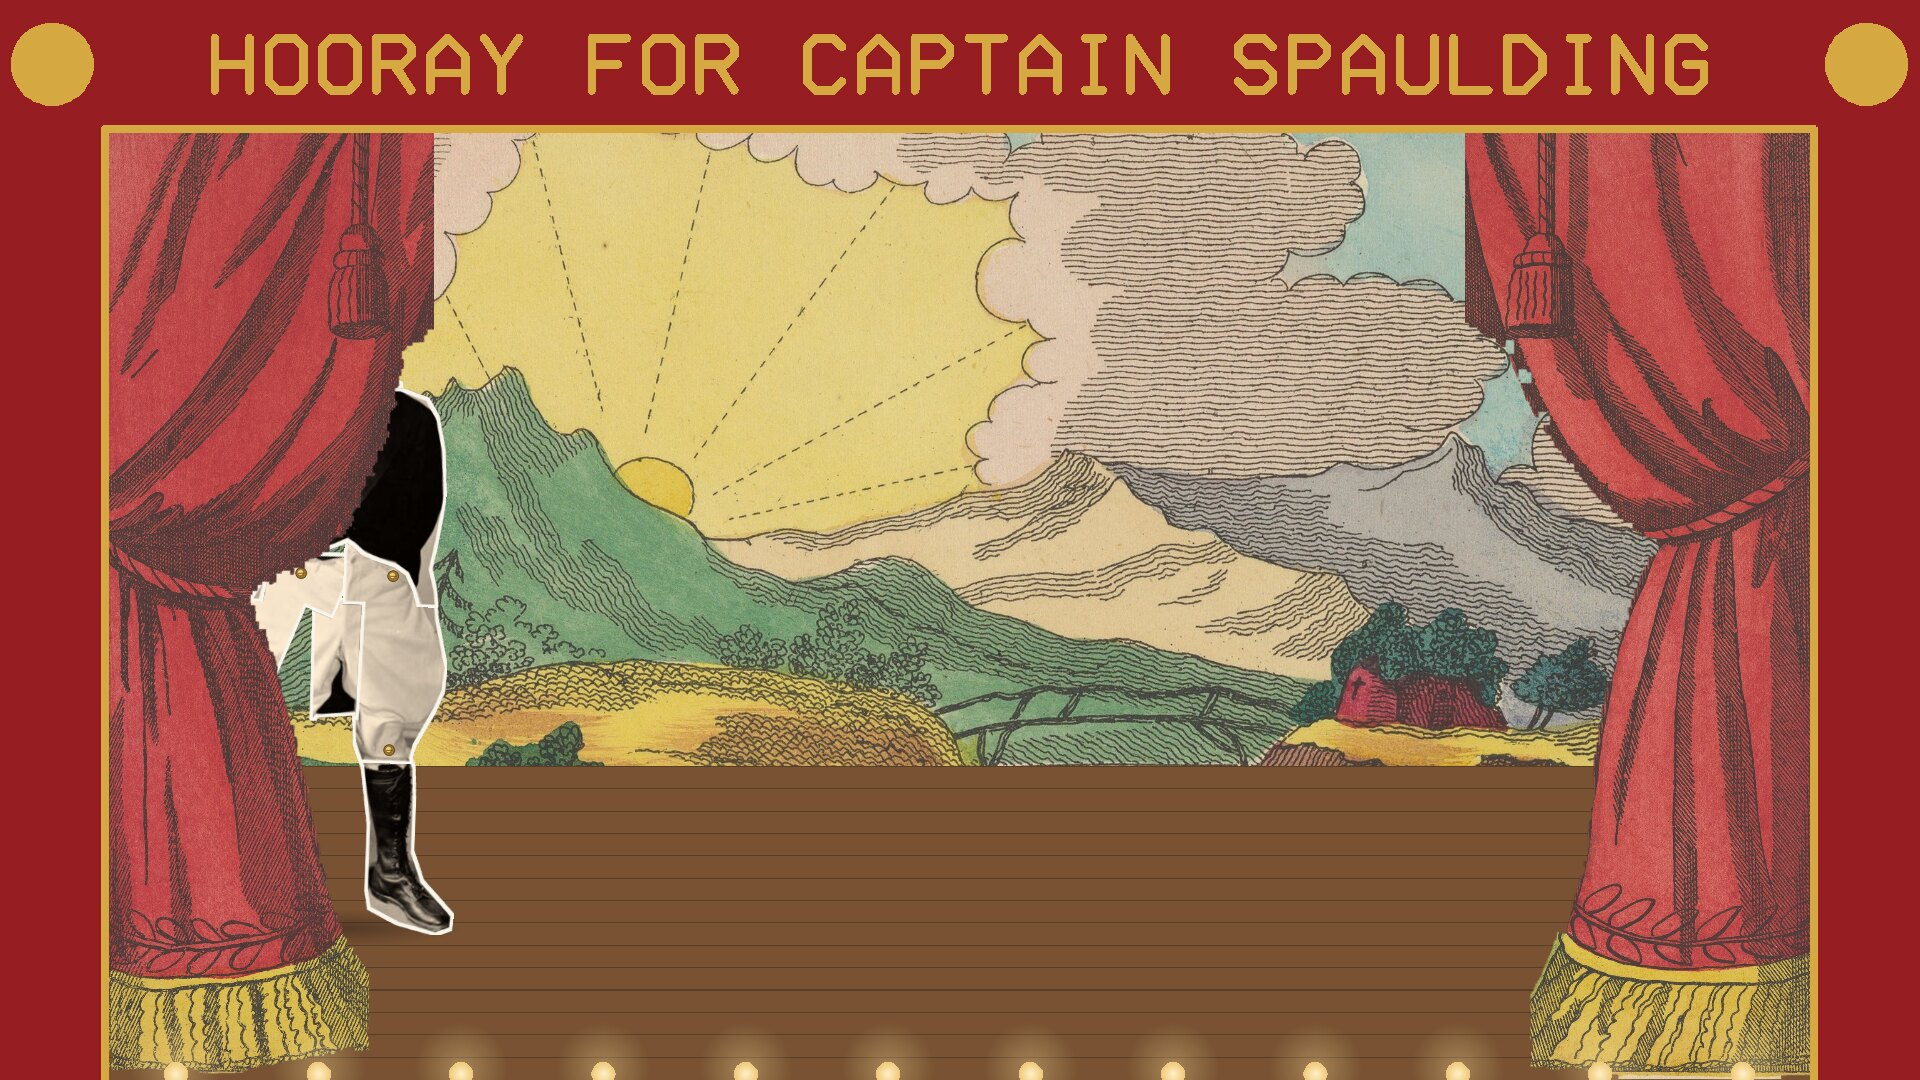
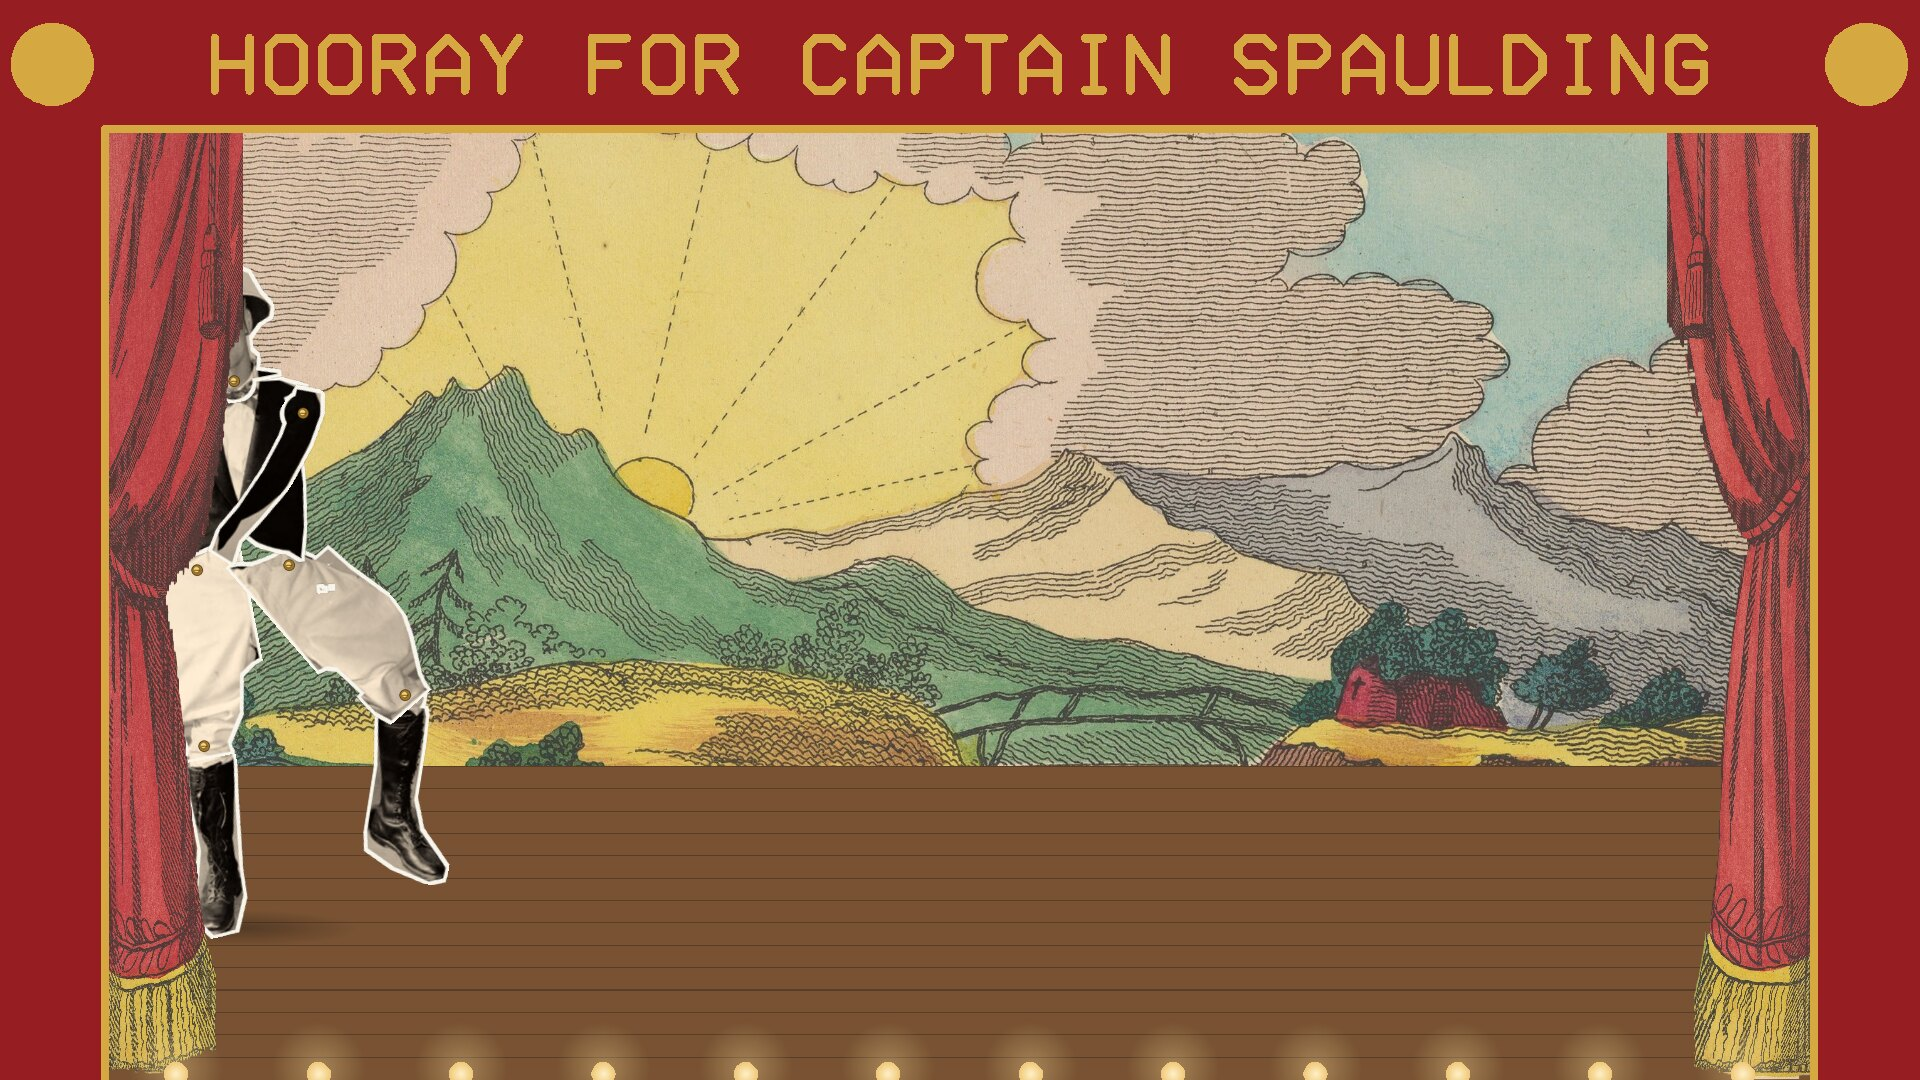
Arms, snappier moves, a clean crotch, smaller curtains
His sleeves are cut away from the jacket as arms pinned at the shoulders,
and they flail through every part. Every move snaps to the beat and holds.
The coat-tail strip between the legs is gone, the trouser seat and all the
light trouser cloth go with the legs, and the curtains are narrow edges.

Changed region(s): [[0.0312, 0.1222, 0.25, 1.0], [0.75, 0.1222, 0.9688, 1.0]]

diff --git a/src/spaulding.c b/src/spaulding.c
@@ -59,7 +59,7 @@
  * tools/make_doll.py, which also writes where their pins are (doll.h); the backdrop
  * and the curtains are from Pollock's toy-theatre scenes, cut by tools/make_stage.py. */
 #define SPRITES \
-    X(head, "sp_head.png") X(body, "sp_body.png") X(tail, "sp_tail.png") \
+    X(head, "sp_head.png") X(body, "sp_body.png") X(arm_l, "sp_arm_l.png") X(arm_r, "sp_arm_r.png") \
     X(thigh_l, "sp_thigh_l.png") X(thigh_r, "sp_thigh_r.png") X(shin_l, "sp_shin_l.png") X(shin_r, "sp_shin_r.png") \
     X(pin, "sp_pin.png") X(backdrop, "backdrop.jpg") X(drape_l, "drape_l.png") X(drape_r, "drape_r.png")
 #define X(name, file) ART(name, file)
@@ -331,55 +331,89 @@ static int beat_at(double t, double *phase)
 
 /* the doll's pose: where he stands (across the stage, 0..1), how high he hops, and
  * the turn of each piece about its pin, in degrees (clockwise) */
-typedef struct { double x, hop, body, head, thigh_l, shin_l, thigh_r, shin_r; } Pose;
+typedef struct { double x, hop, body, head, arm_l, arm_r, thigh_l, shin_l, thigh_r, shin_r; } Pose;
 
-static Pose pose_at(double t)
+/* Two poses a beat apart, and the snap from one to the other: like a paper doll
+ * worked by a hand, every move is a quick jerk at the start of the beat, then a hold. */
+static double snap(double ph) { return ease(fmin(1, ph / 0.16)); }
+static Pose mix(Pose a, Pose b, double f)
+{
+    Pose p;
+    double *pa = &a.x, *pb = &b.x, *pp = &p.x;
+    for (unsigned i = 0; i < sizeof p / sizeof(double); i++) pp[i] = pa[i] + (pb[i] - pa[i]) * f;
+    return p;
+}
+/* The pose he jerks into on beat b, in each part of the song. Angles are degrees about
+ * each piece's pin; for an arm or a leg, plus swings it out to the left. */
+static Pose key_pose(int b, double t)
 {
     Pose p = {0};
-    double ph;
-    int b = beat_at(t, &ph), odd = b & 1;
-    double up = sin(M_PI * ph);                    /* 0 on the beat, 1 between */
+    int odd = b & 1, bar = b / 4, in_bar = b % 4;
     double side = odd ? 1 : -1;
-    /* where he is: marching on from the left wing, then centre stage, where he keeps
-     * setting off for the wings while he sings that he must be going */
-    double in = ease(ramp(t, 3, 13));
-    p.x = -0.25 + 0.75 * in;
-    double going = 0;
-    if (t > SONG_PART2 && t < DANCE - 4) {
-        double u = fmod(t - SONG_PART2, 16.0);
-        going = ease(ramp(u, 4, 7)) * (1 - ease(ramp(u, 10, 13)));
-        p.x += 0.28 * going * ((int)((t - SONG_PART2) / 16.0) % 2 ? -1 : 1);
-    }
-    double walking = (t > 3 && t < 13) || (going > 0.02 && going < 0.98) ? 1 : 0;
-    double kick = ramp(t, DANCE, DANCE + 1);
-    /* marking time: one knee up on every beat, the other on the next */
-    double knee = 22 * up * (walking ? 1.2 : 0.8);
-    if (odd) { p.thigh_l = knee; p.shin_l = -knee * 1.3; } else { p.thigh_r = -knee; p.shin_r = knee * 1.3; }
-    p.body = 2.5 * side * up;
-    p.head = -4 * side * up + 3 * sin(anim_t * 1.3);
-    if (kick > 0) {
-        /* the dance: jumping-jack kicks, a hop on each, head thrown about; and every
-         * fourth bar one leg goes right round its pin */
-        int bar = b / 4, in_bar = b % 4;
-        double big = 70 * pow(up, 0.7);
-        p.hop = 0.03 * up * kick;
-        p.body = 7 * side * up * kick;
-        p.head = -14 * side * up * kick;
-        if (odd) { p.thigh_l = big * kick; p.shin_l = -25 * up; p.thigh_r = 0; p.shin_r = 0; }
-        else { p.thigh_r = -big * kick; p.shin_r = 25 * up; p.thigh_l = 0; p.shin_l = 0; }
-        if (bar % 4 == 3) {
-            double round = (in_bar + ph) / 4;            /* over the four beats of the bar */
-            double turn = 360 * ease(round);
-            if (bar % 8 == 3) { p.thigh_l = turn; p.shin_l = 30 * sin(M_PI * round); }
-            else { p.thigh_r = -turn; p.shin_r = -30 * sin(M_PI * round); }
-            p.hop = 0.05 * sin(M_PI * round);
+    if (t < 13) {                                  /* marching on: a high strut, arms pumping */
+        p.thigh_l = odd ? 38 : -8; p.shin_l = odd ? -50 : 0;
+        p.thigh_r = odd ? 8 : -38; p.shin_r = odd ? 0 : 50;
+        p.arm_l = odd ? -35 : 55; p.arm_r = odd ? -55 : 35;
+        p.head = 8 * side; p.body = 3 * side;
+    } else if (t < SONG_PART2) {                   /* marking time, as the chorus sings */
+        p.thigh_l = odd ? 45 : 0; p.shin_l = odd ? -70 : 0;
+        p.thigh_r = odd ? 0 : -45; p.shin_r = odd ? 0 : 70;
+        p.arm_l = odd ? 20 : 95; p.arm_r = odd ? -95 : -20;
+        p.head = 10 * side; p.body = 4 * side;
+        if (bar % 4 == 3) { p.arm_l = 150; p.arm_r = -150; p.head = -12; }   /* hooray! */
+    } else if (t < DANCE) {                        /* "Hello, I must be going": waving goodbye */
+        p.arm_l = 155 + 22 * side; p.arm_r = -30;
+        p.thigh_l = odd ? 30 : 0; p.shin_l = odd ? -45 : 0;
+        p.thigh_r = odd ? 0 : -30; p.shin_r = odd ? 0 : 45;
+        p.head = 12 * side; p.body = -3 * side;
+        if (bar % 2) { p.arm_l = 30; p.arm_r = -155 - 22 * side; }
+    } else {                                       /* the dance: a jumping jack on every beat */
+        p.thigh_l = odd ? 55 : 0; p.thigh_r = odd ? -55 : 0;
+        p.shin_l = odd ? -20 : 0; p.shin_r = odd ? 20 : 0;
+        p.arm_l = odd ? 165 : 25; p.arm_r = odd ? -165 : -25;
+        p.hop = odd ? 0.05 : 0;
+        p.head = 16 * side; p.body = 6 * side;
+        if (bar % 3 == 1) {                        /* a can-can: one leg kicked high, then the other */
+            p.thigh_l = in_bar & 1 ? 0 : 95; p.thigh_r = in_bar & 1 ? -95 : 0;
+            p.shin_l = 0; p.shin_r = 0;
+            p.arm_l = 70; p.arm_r = -70; p.hop = 0.03;
         }
     }
-    /* the bow at the end: a hop back, a deep nod */
-    double bow = ease(ramp(t, END, END + 0.8)) * (1 - ease(ramp(t, END + 3.0, END + 3.8)));
+    return p;
+}
+static Pose pose_at(double t)
+{
+    double ph;
+    int b = beat_at(t, &ph);
+    Pose p = mix(key_pose(b - 1, t), key_pose(b, t), snap(ph));
+    /* where he is: marching on from the left wing to centre stage, and then, while he
+     * sings that he must be going, setting off for the wings and coming back */
+    p.x = -0.25 + 0.75 * ease(ramp(t, 3, 13));
+    if (t > SONG_PART2 && t < DANCE - 4) {
+        double u = fmod(t - SONG_PART2, 16.0);
+        double going = ease(ramp(u, 4, 7)) * (1 - ease(ramp(u, 10, 13)));
+        p.x += 0.28 * going * ((int)((t - SONG_PART2) / 16.0) % 2 ? -1 : 1);
+    }
+    if (t >= DANCE) {
+        int bar = b / 4, in_bar = b % 4;
+        double round = (in_bar + ph) / 4;          /* through the bar, 0..1 */
+        /* every fourth bar a leg goes right round its pin, fast */
+        if (bar % 4 == 3) {
+            double turn = 360 * ease(fmin(1, round * 1.6));
+            if (bar % 8 == 3) { p.thigh_l = turn; p.shin_l = 25 * sin(M_PI * round); }
+            else { p.thigh_r = -turn; p.shin_r = -25 * sin(M_PI * round); }
+            p.hop = 0.05 * sin(M_PI * round);
+        }
+        /* and every sixth bar both arms windmill round, twice */
+        if (bar % 6 == 5) { p.arm_l = 720 * round + 20; p.arm_r = -720 * round - 20; }
+    }
+    /* the bow at the end: a hop back, a deep nod, arms flung wide */
+    double bow = ease(ramp(t, END, END + 0.4)) * (1 - ease(ramp(t, END + 3.0, END + 3.4)));
     if (bow > 0) {
-        p.head = 28 * bow; p.body = -6 * bow; p.hop *= 1 - bow;
-        p.thigh_l *= 1 - bow; p.thigh_r *= 1 - bow; p.shin_l *= 1 - bow; p.shin_r *= 1 - bow;
+        Pose bw = p;
+        bw.head = 30; bw.body = -8; bw.hop = 0; bw.arm_l = 110; bw.arm_r = -110;
+        bw.thigh_l = bw.thigh_r = bw.shin_l = bw.shin_r = 0;
+        p = mix(p, bw, bow);
     }
     return p;
 }
@@ -405,7 +439,7 @@ static void piece(int which, int idx, double wx, double wy, double angle, double
     SDL_FPoint centre = {(float)(pc->pin_x * k), (float)(pc->pin_y * k)};
     SDL_RenderCopyExF(ren, cur_tex[which], NULL, &dst, angle, &centre, SDL_FLIP_NONE);
 }
-enum { P_HEAD, P_BODY, P_TAIL, P_THIGH_L, P_THIGH_R, P_SHIN_L, P_SHIN_R };
+enum { P_HEAD, P_BODY, P_ARM_L, P_ARM_R, P_THIGH_L, P_THIGH_R, P_SHIN_L, P_SHIN_R };
 
 /* The doll, standing on the stage floor at `floor`, `tall` high. Every piece hangs
  * from the one above it by its pin; the lower foot is put on the floor. */
@@ -416,9 +450,10 @@ static void doll(Pose p, double floor, double tall)
     double sx = p.x * sw;
     /* the rest positions, as offsets from between the hips */
     #define REL(i) (PIECE[i].at_x - HX), (PIECE[i].at_y - HY)
-    double bx, by, nx, ny, hlx, hly, hrx, hry, tx, ty;
+    double bx, by, nx, ny, hlx, hly, hrx, hry, alx, aly, arx, ary;
     turn(REL(P_BODY), p.body, &bx, &by);
-    turn(REL(P_TAIL), p.body, &tx, &ty);
+    turn(REL(P_ARM_L), p.body, &alx, &aly);
+    turn(REL(P_ARM_R), p.body, &arx, &ary);
     turn(REL(P_HEAD), p.body, &nx, &ny);
     turn(REL(P_THIGH_L), p.body, &hlx, &hly);
     turn(REL(P_THIGH_R), p.body, &hrx, &hry);
@@ -444,16 +479,17 @@ static void doll(Pose p, double floor, double tall)
         for (int i = 0; i < n; i++) { ib[ni++] = b0; ib[ni++] = b0 + 1 + i; ib[ni++] = b0 + 1 + (i + 1) % n; }
         flush(ren);
     }
-    /* back to front: coat tails, legs, body, head; then the pins over all */
-    piece(SP_tail, P_TAIL, ox + tx * k, oy + ty * k, p.body, k);
+    /* back to front: legs, body, head, arms; then the pins over all */
     piece(SP_shin_l, P_SHIN_L, ox + klx * k, oy + kly * k, p.body + p.thigh_l + p.shin_l, k);
     piece(SP_shin_r, P_SHIN_R, ox + krx * k, oy + kry * k, p.body + p.thigh_r + p.shin_r, k);
     piece(SP_thigh_l, P_THIGH_L, ox + hlx * k, oy + hly * k, p.body + p.thigh_l, k);
     piece(SP_thigh_r, P_THIGH_R, ox + hrx * k, oy + hry * k, p.body + p.thigh_r, k);
     piece(SP_body, P_BODY, ox + bx * k, oy + by * k, p.body, k);
     piece(SP_head, P_HEAD, ox + nx * k, oy + ny * k, p.body + p.head, k);
-    double pins[][2] = {{nx, ny}, {hlx, hly}, {hrx, hry}, {klx, kly}, {krx, kry}};
-    for (int i = 0; i < 5; i++) {
+    piece(SP_arm_l, P_ARM_L, ox + alx * k, oy + aly * k, p.body + p.arm_l, k);
+    piece(SP_arm_r, P_ARM_R, ox + arx * k, oy + ary * k, p.body + p.arm_r, k);
+    double pins[][2] = {{nx, ny}, {alx, aly}, {arx, ary}, {hlx, hly}, {hrx, hry}, {klx, kly}, {krx, kry}};
+    for (int i = 0; i < 7; i++) {
         double r = 7 * k * 1.4;
         SDL_FRect d = {(float)(ox + pins[i][0] * k - r), (float)(oy + pins[i][1] * k - r), (float)(2 * r), (float)(2 * r)};
         if (cur_tex && cur_tex[SP_pin]) SDL_RenderCopyF(ren, cur_tex[SP_pin], NULL, &d);
@@ -483,7 +519,7 @@ static void stage_front(int w, int h, double open)
      * opening; drawn open, each is gathered up at its side */
     for (int sd = 0; sd < 2; sd++) {
         int which = sd ? SP_drape_r : SP_drape_l;
-        double ch = h - top_h * 0.6, natural = ch * sprite[which].w / sprite[which].h;
+        double ch = h - top_h * 0.6, natural = 0.42 * ch * sprite[which].w / sprite[which].h;
         double cw = natural + (w / 2.0 - side_w + unit * 2 - natural) * (1 - open);
         double x0 = sd ? w - side_w - cw : side_w;
         pic_part(which, x0, top_h * 0.6, cw, ch, 0, 1, 0, 0);

diff --git a/tools/make_doll.py b/tools/make_doll.py
@@ -1,7 +1,8 @@
 #!/usr/bin/env python3
 """Cut Captain Spaulding out of the 1930 publicity photo (assets/src/spaulding.jpg,
-public domain) as a jointed paper doll: head, body, and each leg in two, thigh and
-shin, held together with brass split pins at the neck, hips and knees.
+public domain) as a jointed paper doll: head, body, each arm (his sleeves: his hands
+are behind his back), and each leg in two, thigh and shin, held together with brass
+split pins at the neck, shoulders, hips and knees.
 
 Each piece is cut along his outline (tools/outline.py), with a round tab at each pin
 so that it can turn without a gap opening, a white paper border, and a light warm
@@ -20,11 +21,19 @@ S = 800            # the outline is traced on the photo shrunk to this width
 BORDER = 5         # the white paper edge, in pixels
 # the pins, in the outline's coordinates
 NECK, HIP_L, HIP_R, KNEE_L, KNEE_R = (382, 196), (318, 452), (444, 452), (282, 690), (447, 690)
+SHOULDER_L, SHOULDER_R = (290, 245), (474, 245)
 TAB = 26           # the radius of the round tab round a pin
 # Each piece: which part of him it is (a test on the outline's coordinates), the pin
 # it turns on (None for the body, which everything hangs from), and the pins it has
 # on it for the pieces below.
-TAIL = [(340, 488), (408, 488), (404, 650), (342, 650)]   # the coat's tails, hanging between his legs
+# the sleeves, down the outside of his jacket from the shoulder to where his hands go
+# behind his back
+ARM_L = [(287, 215), (255, 240), (245, 280), (242, 325), (250, 380), (262, 420), (267, 465),
+         (300, 462), (298, 420), (292, 380), (288, 330), (292, 285), (305, 250), (318, 228)]
+ARM_R = [(480, 210), (495, 235), (505, 280), (509, 340), (500, 400), (492, 440), (500, 470),
+         (468, 470), (462, 440), (468, 400), (470, 340), (466, 285), (458, 250), (450, 222)]
+# the gap between his legs, where the tail of his coat shows behind: cut away
+GAP = [(368, 590), (379, 586), (392, 590), (402, 600), (408, 652), (340, 652), (350, 602)]
 # the seat of his trousers, showing below where his jacket opens: it goes with the legs,
 # each taking its half, so that a leg's whole trouser leg swings when it kicks
 SEAT = [(262, 488), (267, 460), (282, 442), (300, 432), (325, 424), (350, 414), (370, 406), (380, 401),
@@ -32,8 +41,9 @@ SEAT = [(262, 488), (267, 460), (282, 442), (300, 432), (325, 424), (350, 414), 
 CROTCH = 380
 PIECES = [
     ("head", lambda x, y: y < NECK[1] + 2, NECK, []),
-    ("body", lambda x, y: (y >= NECK[1] + 2) & (y < 488), None, [NECK, HIP_L, HIP_R]),     # less the seat
-    ("tail", None, None, []),
+    ("body", lambda x, y: (y >= NECK[1] + 2) & (y < 488), None, [NECK, SHOULDER_L, SHOULDER_R, HIP_L, HIP_R]),   # less the seat and arms
+    ("arm_l", None, SHOULDER_L, []),
+    ("arm_r", None, SHOULDER_R, []),
     ("thigh_l", lambda x, y: (y < KNEE_L[1] + 14) & (x < CROTCH), HIP_L, [KNEE_L]),       # from y 488, and its half of the seat
     ("thigh_r", lambda x, y: (y < KNEE_R[1] + 14) & (x >= CROTCH), HIP_R, [KNEE_R]),
     ("shin_l", lambda x, y: (y >= KNEE_L[1] + 14) & (x < CROTCH), KNEE_L, []),
@@ -60,9 +70,14 @@ def main():
     rgb = np.asarray(tint)
     whole = poly_mask(OUTLINE, (W, H), k)
     ys, xs = np.mgrid[0:H, 0:W] / k
-    tail = poly_mask(TAIL, (W, H), k) & whole
+    arms = {"arm_l": poly_mask(ARM_L, (W, H), k) & whole, "arm_r": poly_mask(ARM_R, (W, H), k) & whole}
+    gap = poly_mask(GAP, (W, H), k)
+    whole &= ~gap
     seat = poly_mask(SEAT, (W, H), k) & whole
-    legs = seat | (ys >= 488)
+    # all the light trouser cloth below his jacket goes with the legs, not the jacket
+    trouser = whole & (np.asarray(photo) > 150) & (ys > 420) & ~arms["arm_l"] & ~arms["arm_r"]
+    legs = seat | (ys >= 488) | trouser
+
     pins_px = lambda p: (p[0] * k, p[1] * k)
     out_scale = 1.0 / k        # pieces are written at the outline's scale (800 wide)
     lines = ["/* Made by tools/make_doll.py: the paper doll's pieces and their pins. */",
@@ -71,15 +86,17 @@ def main():
              "typedef struct { double pin_x, pin_y, at_x, at_y; } Piece;",
              "static const Piece PIECE[] = {"]
     for name, test, pin, kids in PIECES:
-        if name == "tail":
-            m = tail
+        if name in arms:
+            m = arms[name]
         else:
-            m = whole & test(xs, ys) & ~tail
-            if name == "body": m &= ~seat
-            if name.startswith("thigh"): m &= legs
-            if pin is not None:                        # its tab, round the pin it turns on
-                cx, cy = pins_px(pin)
-                m |= whole & (((xs * k - cx) ** 2 + (ys * k - cy) ** 2) < (TAB * k) ** 2)
+            m = whole & test(xs, ys)
+            if name == "body": m &= ~legs & ~arms["arm_l"] & ~arms["arm_r"]
+            if name.startswith("thigh"): m = whole & legs & (xs < CROTCH if name == "thigh_l" else xs >= CROTCH) & (ys < (KNEE_L if name == "thigh_l" else KNEE_R)[1] + 14)
+        if pin is not None:                            # its tab, round the pin it turns on,
+            cx, cy = pins_px(pin)                      # of its own cloth
+            disc = whole & (((xs * k - cx) ** 2 + (ys * k - cy) ** 2) < (TAB * k) ** 2)
+            if name.startswith("thigh"): disc &= legs
+            m |= disc
         # the piece, with its white paper edge round it
         mi = Image.fromarray((m * 255).astype(np.uint8))
         edge = mi.filter(ImageFilter.MaxFilter(2 * int(BORDER * k) + 1))

diff --git a/src/doll.h b/src/doll.h
@@ -4,8 +4,9 @@
 typedef struct { double pin_x, pin_y, at_x, at_y; } Piece;
 static const Piece PIECE[] = {
     /* head     */ {91.1, 170.1, 382.0, 196.0},
-    /* body     */ {138.4, 149.8, 375.4, 343.2},
-    /* tail     */ {38.9, 85.9, 373.9, 569.0},
+    /* body     */ {123.2, 149.8, 383.5, 343.2},
+    /* arm_l    */ {52.9, 35.1, 290.0, 245.0},
+    /* arm_r    */ {30.6, 39.8, 474.0, 245.0},
     /* thigh_l  */ {92.7, 55.7, 318.0, 452.0},
     /* thigh_r  */ {68.6, 55.3, 444.0, 452.0},
     /* shin_l   */ {59.9, 30.3, 282.0, 690.0},

diff --git a/README.md b/README.md
@@ -12,7 +12,9 @@ dancing to the song from the film. Runs on Linux, Windows and macOS. One of the
 The curtains open on a painted sunrise. He marches on from the wings and marks time
 while the chorus sings "Hooray for Captain Spaulding"; through "Hello, I must be
 going" he keeps setting off for the wings and coming back; and in his dance he
-kicks like a jumping jack, and every so often swings a leg right round its pin.
+kicks like a jumping jack with his arms flung up, does a can-can, windmills his
+arms, and every so often swings a leg right round its pin. Every move is a quick
+jerk on the beat, then a hold, like a paper doll worked by hand.
 Then a bow, the curtains close, and it begins again. He keeps time with the music
 the whole way: the beats were found from the recording.
 
@@ -29,7 +31,7 @@ Everything in it is in the public domain in the United States.
 
 - **Captain Spaulding** is cut from the 1930 publicity photograph of Groucho Marx in
   the part ([Wikimedia Commons](https://commons.wikimedia.org/wiki/File:Animal_Crackers_Captain_Spaulding.jpg)),
-  into head, body, coat tails, thighs and shins, with a white paper edge and brass
+  into head, body, sleeves, thighs and shins, with a white paper edge and brass
   split pins (`tools/outline.py`, `tools/make_doll.py`).
 - **The music** is the film's own: Captain Spaulding's arrival, "Hello, I must be
   going", "Hooray for Captain Spaulding" by Bert Kalmar and Harry Ruby, and his
